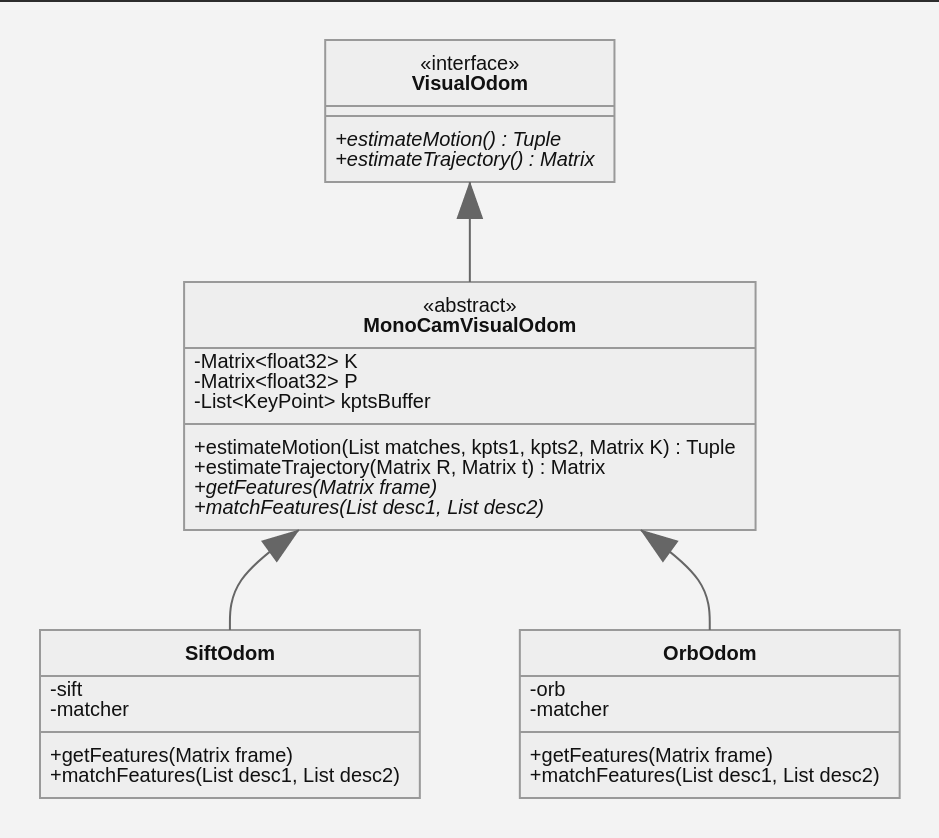
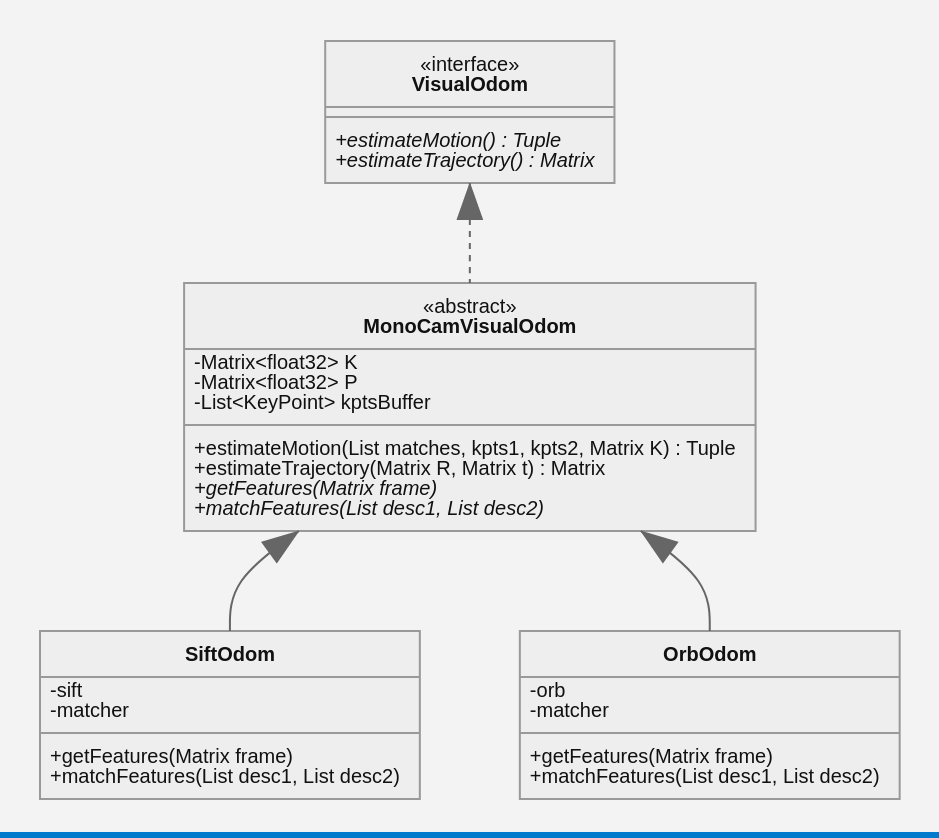
corrected UML interface realization relationship  Changes to be committed: 	modified:   assets/arch.png 	modified:   assets/uml.md

diff --git a/assets/uml.md b/assets/uml.md
@@ -32,7 +32,7 @@ class OrbOdom{
 	+matchFeatures(List desc1, List desc2)
 }
 
-VisualOdom <|-- MonoCamVisualOdom
+VisualOdom <|.. MonoCamVisualOdom
 MonoCamVisualOdom <|-- SiftOdom
 MonoCamVisualOdom <|-- OrbOdom
 ```
